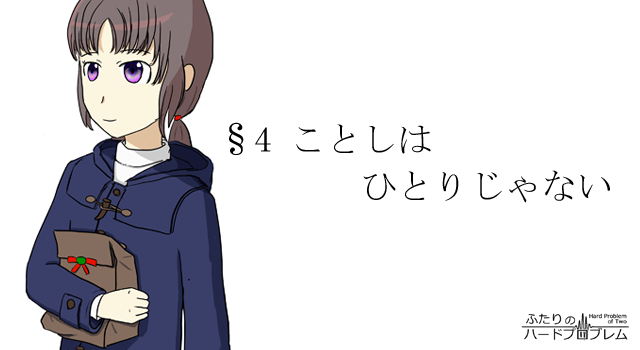
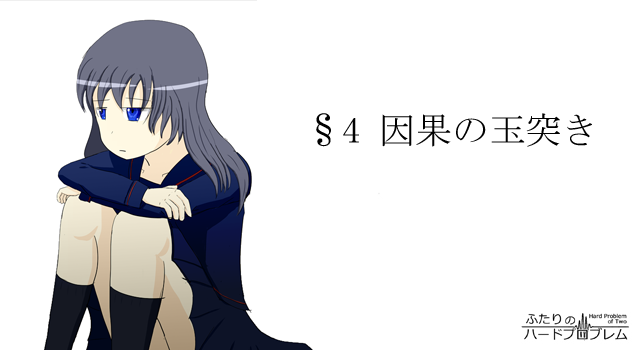
§4タイトル変更&扉絵差し替え

diff --git a/hardproblem/config.js b/hardproblem/config.js
@@ -120,7 +120,7 @@ HPOTCFG.chapters = [
                     },
                     {
                       sectPrefix: "§4",
-                      title: "ことしはひとりじゃない",
+                      title: "因果の玉突き",
                       sections:
                         [
                           {
